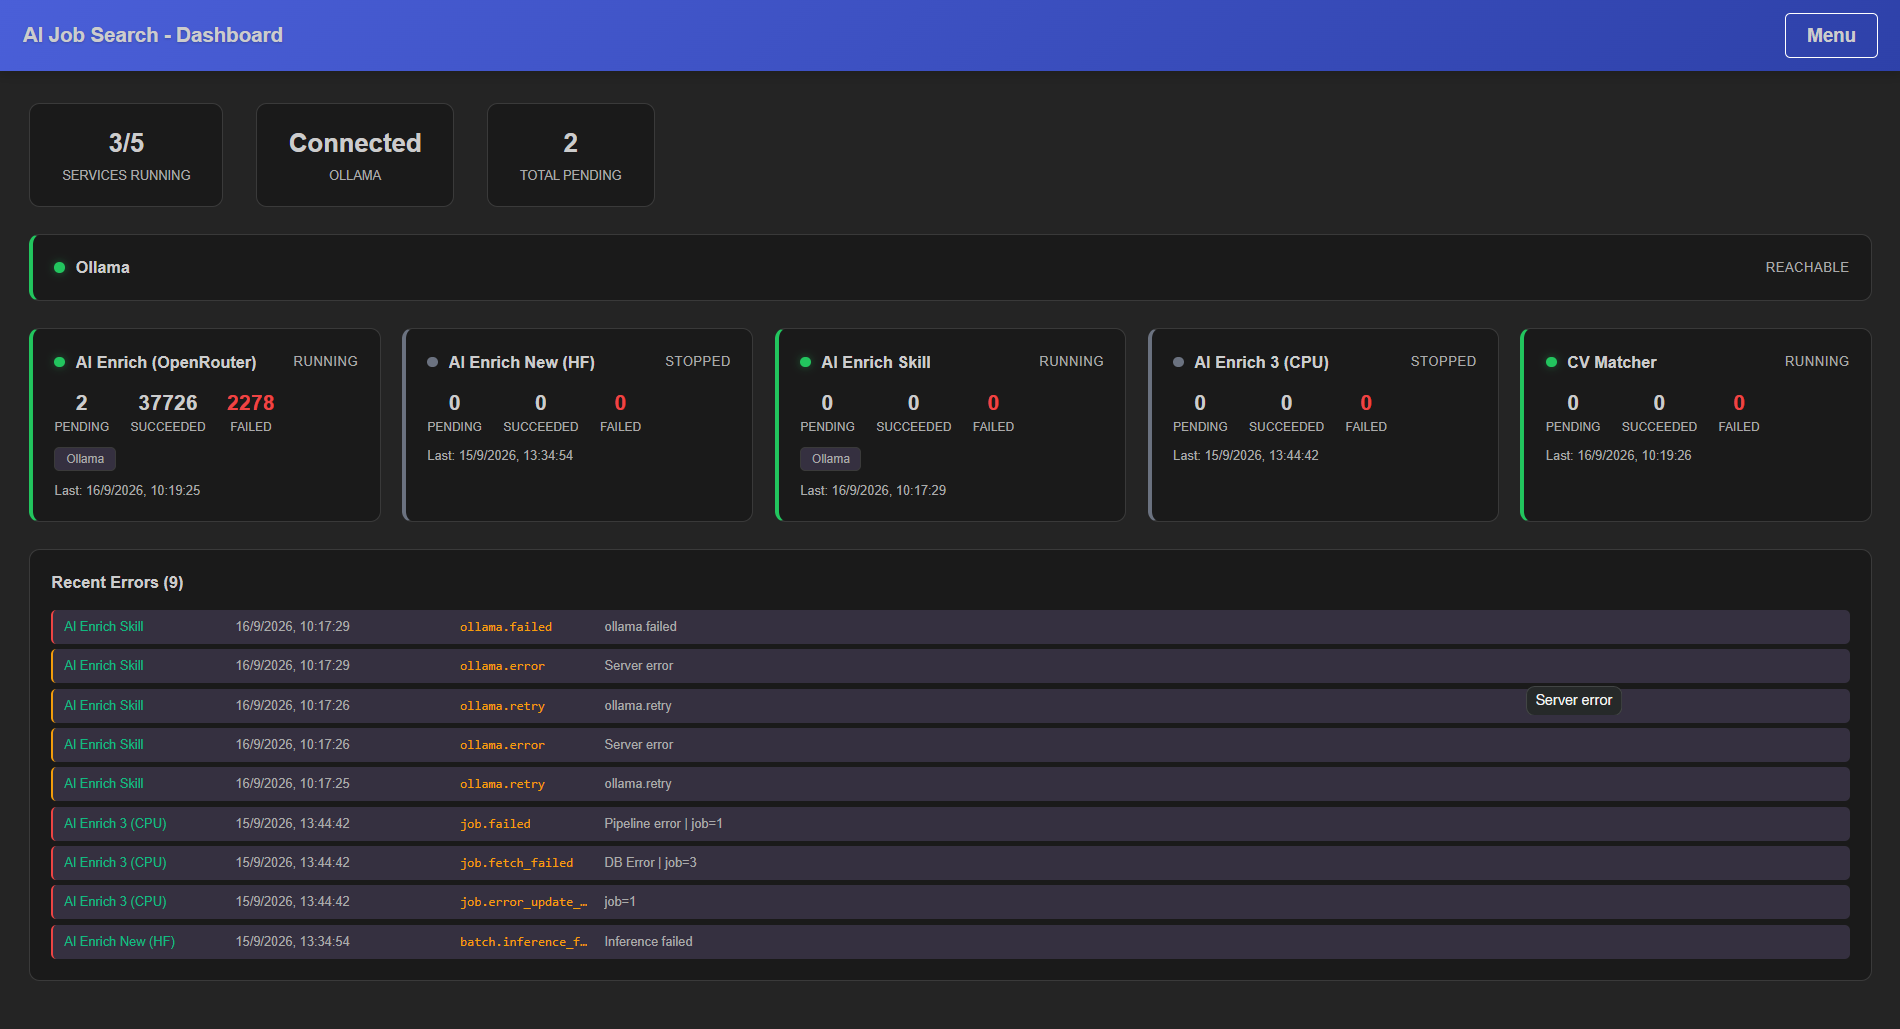
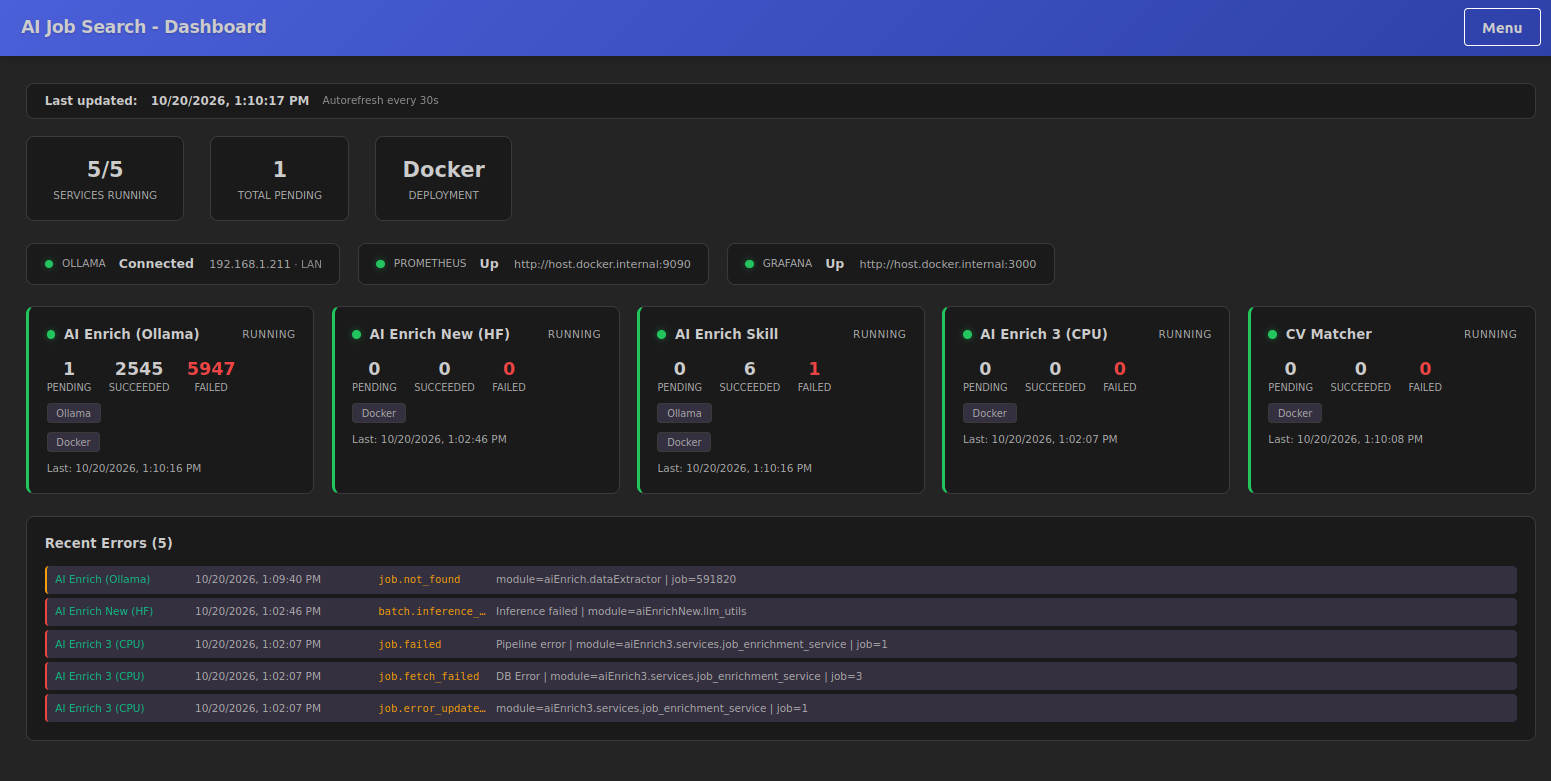
Add AI backend pill and backend_unreachable metric to dashboard
- Add aiBackend field to /dashboard/services endpoint, showing configured
  AI backend (ollama/openrouter) as an informational pill left of the Ollama pill
- Add backend_unreachable per-module counter in metrics_collector, incremented
  when ping_backend() fails (covers both Ollama and OpenRouter backends)
- Expose ai_enrich_backend_unreachable_total gauge via /metrics endpoint
- Add 'Backend Unreachable by Module' stat panel to Grafana dashboard
- Reset metrics counters (deleted enrichment_metrics.json)
- Include pre-existing mysql_queries.sql changes (LIMIT 20->5, watcher_match select)

diff --git a/apps/web/src/pages/dashboard/Dashboard.tsx b/apps/web/src/pages/dashboard/Dashboard.tsx
@@ -41,6 +41,11 @@ export default function Dashboard() {
                 </div>
 
                 <div className="dashboard-top-row">
+                    <div className="service-pill service-pill--ai-backend">
+                        <span className="status-dot status-dot--running" />
+                        <span className="service-pill-label">AI Backend</span>
+                        <span className="service-pill-value">{data.aiBackend}</span>
+                    </div>
                     <div className="service-pill service-pill--ollama">
                         <span className={`status-dot status-dot--${data.ollama.reachable ? 'running' : 'error'}`} />
                         <span className="service-pill-label">Ollama</span>

diff --git a/apps/web/src/pages/dashboard/api/DashboardApi.ts b/apps/web/src/pages/dashboard/api/DashboardApi.ts
@@ -50,6 +50,7 @@ export interface OllamaStatus {
 export interface DashboardData {
     services: ServiceStatus[];
     ollama: OllamaStatus;
+    aiBackend: string;
     prometheus: ServiceHealth;
     grafana: ServiceHealth;
     deployment: 'docker' | 'host';

diff --git a/apps/commonlib/commonlib/prometheus_exporter.py b/apps/commonlib/commonlib/prometheus_exporter.py
@@ -34,6 +34,7 @@ def build_prometheus_metrics(snapshot: dict) -> bytes:
     cache_misses = Gauge("ai_enrich_cache_misses_total", "Total cache misses", ["module"], registry=registry)
     pending = Gauge("ai_enrich_pending_jobs", "Currently pending jobs", ["module"], registry=registry)
     last_ts = Gauge("ai_enrich_last_processed_timestamp", "Last job processed timestamp", ["module"], registry=registry)
+    backend_unreachable = Gauge("ai_enrich_backend_unreachable_total", "Total backend unreachable events", ["module"], registry=registry)
     g_total_jobs = Gauge("ai_enrich_total_jobs", "Total jobs across all modules", registry=registry)
     g_total_err = Gauge("ai_enrich_total_errors", "Total errors across all modules", registry=registry)
     g_modules = Gauge("ai_enrich_modules_count", "Number of modules reporting", registry=registry)
@@ -54,6 +55,7 @@ def build_prometheus_metrics(snapshot: dict) -> bytes:
         cache_hits.labels(module=name).set(data.get("cache_hits", 0))
         cache_misses.labels(module=name).set(data.get("cache_misses", 0))
         pending.labels(module=name).set(data.get("pending_jobs", 0))
+        backend_unreachable.labels(module=name).set(data.get("backend_unreachable", 0))
         last_processed = data.get("last_processed_at")
         if last_processed:
             try:

diff --git a/apps/commonlib/commonlib/services/metrics_collector.py b/apps/commonlib/commonlib/services/metrics_collector.py
@@ -44,6 +44,7 @@ class MetricsCollector:
                 "last_error_at": None,
                 "last_error": None,
                 "pending_jobs": 0,
+                "backend_unreachable": 0,
                 "deployment": "docker" if isDocker() else "host",
             }
         )
@@ -72,6 +73,11 @@ class MetricsCollector:
             m = self._modules[module]
             m["last_error_at"] = time.strftime("%Y-%m-%dT%H:%M:%S")
             m["last_error"] = error[:200]
+
+    def record_backend_unreachable(self, module: str):
+        with self._lock:
+            m = self._modules[module]
+            m["backend_unreachable"] = m.get("backend_unreachable", 0) + 1
 
     def set_pending(self, module: str, count: int):
         with self._lock:

diff --git a/apps/backend/services/dashboard_service.py b/apps/backend/services/dashboard_service.py
@@ -27,6 +27,7 @@ OLLAMA_MODULES = {"aienrich", "aienrichskill"}
 OLLAMA_ERROR_WINDOW_SECONDS = 1800
 PROMETHEUS_URL = getEnv("PROMETHEUS_URL", "http://host.docker.internal:9090").strip().rstrip("/")
 GRAFANA_URL = getEnv("GRAFANA_URL", "http://host.docker.internal:3000").strip().rstrip("/")
+AI_BACKEND = getEnv("AI_ENRICH_BACKEND", "ollama").strip().lower()
 
 
 def get_services_status() -> dict:
@@ -69,6 +70,7 @@ def get_services_status() -> dict:
             **ollama_info,
             "recentErrors": ollama_errors,
         },
+        "aiBackend": AI_BACKEND,
         "prometheus": _probe_service(PROMETHEUS_URL, "/-/healthy"),
         "grafana": _probe_service(GRAFANA_URL, "/api/health"),
         "timestamp": now.isoformat(),

diff --git a/apps/aiEnrich/src/aiEnrich/dataExtractor.py b/apps/aiEnrich/src/aiEnrich/dataExtractor.py
@@ -109,6 +109,7 @@ def _process_job_safe(
                 while response is None:
                     if not ping_backend():
                         logger.error("ai.unreachable", backend=backend, consecutive_failures=ollama_consecutive_failures, max_failures=get_max_ollama_failures())
+                        collector.record_backend_unreachable("aiEnrich")
                         logIdleWait(cyan('Backend unavailable, retrying... '), '10s', "ai.retry_wait", reason="backend_unavailable")
                         continue
                     result, response = query_and_parse(

diff --git a/apps/commonlib/README.md b/apps/commonlib/README.md
@@ -89,6 +89,7 @@ Conventions:
 - Secrets and PII are never logged (no env values, tokens, CV text or user content), and large blobs are passed as objects rather than pre-rendered strings.
 - `module` is stamped from the calling app module by `observability.stamp_caller_module`, so a record names the module that produced it even when a shared helper logged it; the `get_logger(name)` argument is only the fallback. No call site may pass `module=` (the architecture test rejects it) — data read from the stamped value uses `source_module`.
 - `job_log_context(id)` binds `job_id` for the records emitted inside the block, including those from shared helpers like `sql.query_executor`, and unbinds it on exit (also on an exception). An explicit `job_id=` on a call wins over the context.
+- `metrics_collector` (`services/metrics_collector.py`) holds a per-module in-memory snapshot (`jobs_processed`, `jobs_succeeded`, `jobs_failed`, `pending_jobs`, `backend_unreachable`, `last_error`, …) persisted to `AI_ENRICH_METRICS_FILE` (`data/metrics/enrichment_metrics.json` by default) every 60 s and reloaded on each `/metrics` scrape. Enrichment workers call `collector.record_job(module, duration, success)` per job, `collector.record_error(module, error)` on failure, and `collector.record_backend_unreachable(module)` when the LLM backend (Ollama or OpenRouter) cannot be reached. `prometheus_exporter.py` converts the snapshot to Prometheus text format (`ai_enrich_jobs_processed_total`, `ai_enrich_jobs_failed_total`, `ai_enrich_backend_unreachable_total`, …) for the backend's `/metrics` endpoint.
 - A write that fails in `log_writer.append_jsonl` — usually a root-owned `data/logs` folder that a container created and the host user cannot write — is never fatal and never silent: the record is dropped and reported once per path as `logs.write_failed` with a `chown` hint, and the warning is re-armed by the next successful write. `metrics_collector.persist()` follows the same contract with `metrics.persist_failed`.
 - `print()` is kept only for presentational output: in-place terminal progress (`end=`, `flush=True`, `\r`) — the `terminalUtil.py` countdown and the `decorator/retry.py` progress chain — and the `sync/mysql_sync.py` dry-run summary. In-place redraws require an interactive terminal; `ai_helpers.logIdleWait()` instead logs one rendered record — the human sentence as `message=`, with the event, `wait_seconds` and `reason` as fields — and then waits on a `WakeableTimer`, so `docker-compose logs` shows one readable line per idle cycle (`ai_helpers.idleWait()` is the same wait without a record, when the cycle's event was already logged). `ai_helpers.footer()` does the same for a batch summary (`ai.batch_completed`, with the `n/m` counters as fields); `footer()` and `printJob()` clamp the denominator to at least the jobs already processed, so a drain that picks up newly pending jobs reads `n/n` instead of `n/1`. ANSI color codes passed into these helpers are stripped before a `message` reaches the JSONL, so records never carry escape sequences.
 

diff --git a/apps/aiEnrich/README.md b/apps/aiEnrich/README.md
@@ -68,7 +68,7 @@ Structured logging via `commonlib.observability`; records go to stdout and are m
 
 **Idle**: with nothing pending, or while the backend is unreachable, the pipeline calls `logIdleWait()` rather than sleeping. It renders one record — `jobs.skipped` (`reason=no_pending_jobs`) or `ai.retry_wait` (`reason=backend_unavailable`) — with the human sentence as `message=`, then waits on a `WakeableTimer` that a shutdown signal cuts short. Interactive terminals keep the in-place countdown.
 
-**Sleeping backend**: once an Ollama server has been resolved, consecutive `ai.unreachable` failures keep the loop waiting for it instead of exiting. A cached server that stops answering is dropped (`ollama.resolved_unreachable`) and resolved again through the configured URL, the fallback candidates and the LAN scan, so a LAN host that suspends resumes the run even when it comes back on another DHCP address — no container restart needed. `AI_ENRICH_MAX_OLLAMA_FAILURES` (default `3`) only aborts the process while no server has ever been resolved, so Docker's restart policy can retry a startup that cannot reach any candidate (wrong URL, network not ready).
+**Sleeping backend**: once an Ollama server has been resolved, consecutive `ai.unreachable` failures keep the loop waiting for it instead of exiting. A cached server that stops answering is dropped (`ollama.resolved_unreachable`) and resolved again through the configured URL, the fallback candidates and the LAN scan, so a LAN host that suspends resumes the run even when it comes back on another DHCP address — no container restart needed. Each unreachable detection is also counted in the `backend_unreachable` per-module metric (exposed as `ai_enrich_backend_unreachable_total` on `/metrics`), so Grafana can show backend-outage spikes independently of job failures. `AI_ENRICH_MAX_OLLAMA_FAILURES` (default `3`) only aborts the process while no server has ever been resolved, so Docker's restart policy can retry a startup that cannot reach any candidate (wrong URL, network not ready).
 
 **Provider failures mid-job**: when a single job cannot reach the provider (`query_and_parse` returns no response), the service logs `job.ai_unreachable`, waits for the backend (with `ai.unreachable` / `ai.retry_wait`) and retries the *same* job. A job is never counted as processed, and progress is not advanced, until it either succeeds or fails with a real error; the job stays pending and is retried on the next cycle.
 

diff --git a/apps/backend/README.md b/apps/backend/README.md
@@ -220,13 +220,16 @@ The response shape is:
     "isLan": true,
     "recentErrors": []
   },
+  "aiBackend": "ollama",
+  "prometheus": { "reachable": true, "url": "http://host.docker.internal:9090" },
+  "grafana": { "reachable": true, "url": "http://host.docker.internal:3000" },
   "deployment": "docker",
   "timestamp": "2026-01-01T10:00:00Z"
-}
 ```
 
 - `ollama.serverIp` / `ollama.isLan` report the reachable Ollama server, discovered through the configured URL (`AI_ENRICH_OLLAMA_BASE_URL`), the Docker fallbacks (`host.docker.internal`, `localhost`, `ollama`) or the LAN scan — so an Ollama server running on another machine in the LAN is identified and shown by its IP. The last-known server address is saved in memory and shared across all modules via `commonlib.ollama_probe.get_last_ollama_server()`; the dashboard probes it fresh (no cache) on every refresh, so a server that came back up is detected immediately. When nothing is reachable, the last-known address is kept with `reachable: false` instead of going blank. The LAN scan covers the Docker bridge subnet plus the common LAN subnets (`192.168.0.x`, `192.168.1.x`) automatically, even when the dashboard runs inside a Docker container; if your LAN uses a different subnet, set `COMMONLIB_OLLAMA_DISCOVERY_SUBNETS` (comma-separated CIDRs, e.g. `10.0.0.0/24`).
 - `prometheus` / `grafana` report the health of Prometheus (`GET /-/healthy`) and Grafana (`GET /api/health`) as `{ reachable, url }`. The target URLs come from `PROMETHEUS_URL` (default `http://host.docker.internal:9090`) and `GRAFANA_URL` (default `http://host.docker.internal:3000`); override them in `.env` if your services run elsewhere.
+- `aiBackend` reports the configured AI enrichment backend (`AI_ENRICH_BACKEND`, default `"ollama"`): `"ollama"` or `"openrouter"`. It is shown on the dashboard's top row as an informational pill alongside the Ollama health pill.
 - `deployment` is `"docker"` when the process runs inside a container (`/.dockerenv` or `/proc/1/cgroup`) and `"host"` otherwise. It is reported per service (from that module's own metrics collector) and at the top level for the dashboard itself.
 
 ## Watcher API

diff --git a/apps/web/README.md b/apps/web/README.md
@@ -9,7 +9,7 @@ The modern frontend for the AI Job Search application, built with **React**, **T
 - **Next / Previous Job Navigation**: The ⏮ / ⏭ buttons and the `Alt+P` / `Alt+N` shortcuts move the selection, and the list scrolls whenever the new selection is outside the visible frame.
 - **Job Management**: Update job status (Applied, Interviewing, Rejected, etc.) and edit job data (title, company, location, salary, skills, modality, comments) via the job detail edit form — advanced fields are shown under the "Edit All" toggle.
 - **Statistics**: Visual insights into your job search progress.
-- **Dashboard autorefresh**: The dashboard polls the backend every 30 s and shows a human-readable "Last updated" timestamp plus the autorefresh interval. The top row shows Ollama, Prometheus and Grafana health pills with status, IP/URL and LAN scope.
+- **Dashboard autorefresh**: The dashboard polls the backend every 30 s and shows a human-readable "Last updated" timestamp plus the autorefresh interval. The top row shows the configured AI backend, Ollama, Prometheus and Grafana health pills with status, IP/URL and LAN scope.
 - **Settings Page**: Manage environment variables and scrapper state directly from the browser.
 - **Responsive Design**: Modern UI using CSS and standard React components.
 - **Real-time Updates**: The watcher badge receives near-realtime updates via Server-Sent Events (`GET /api/jobs/watcher-events`). When the backend creates, updates, or deletes a job, it broadcasts an SSE event and the frontend debounces a stats refetch (~200 ms), so the `+N` / `-M` watcher badge reflects new matches within seconds instead of waiting up to 5 minutes for the next poll.
